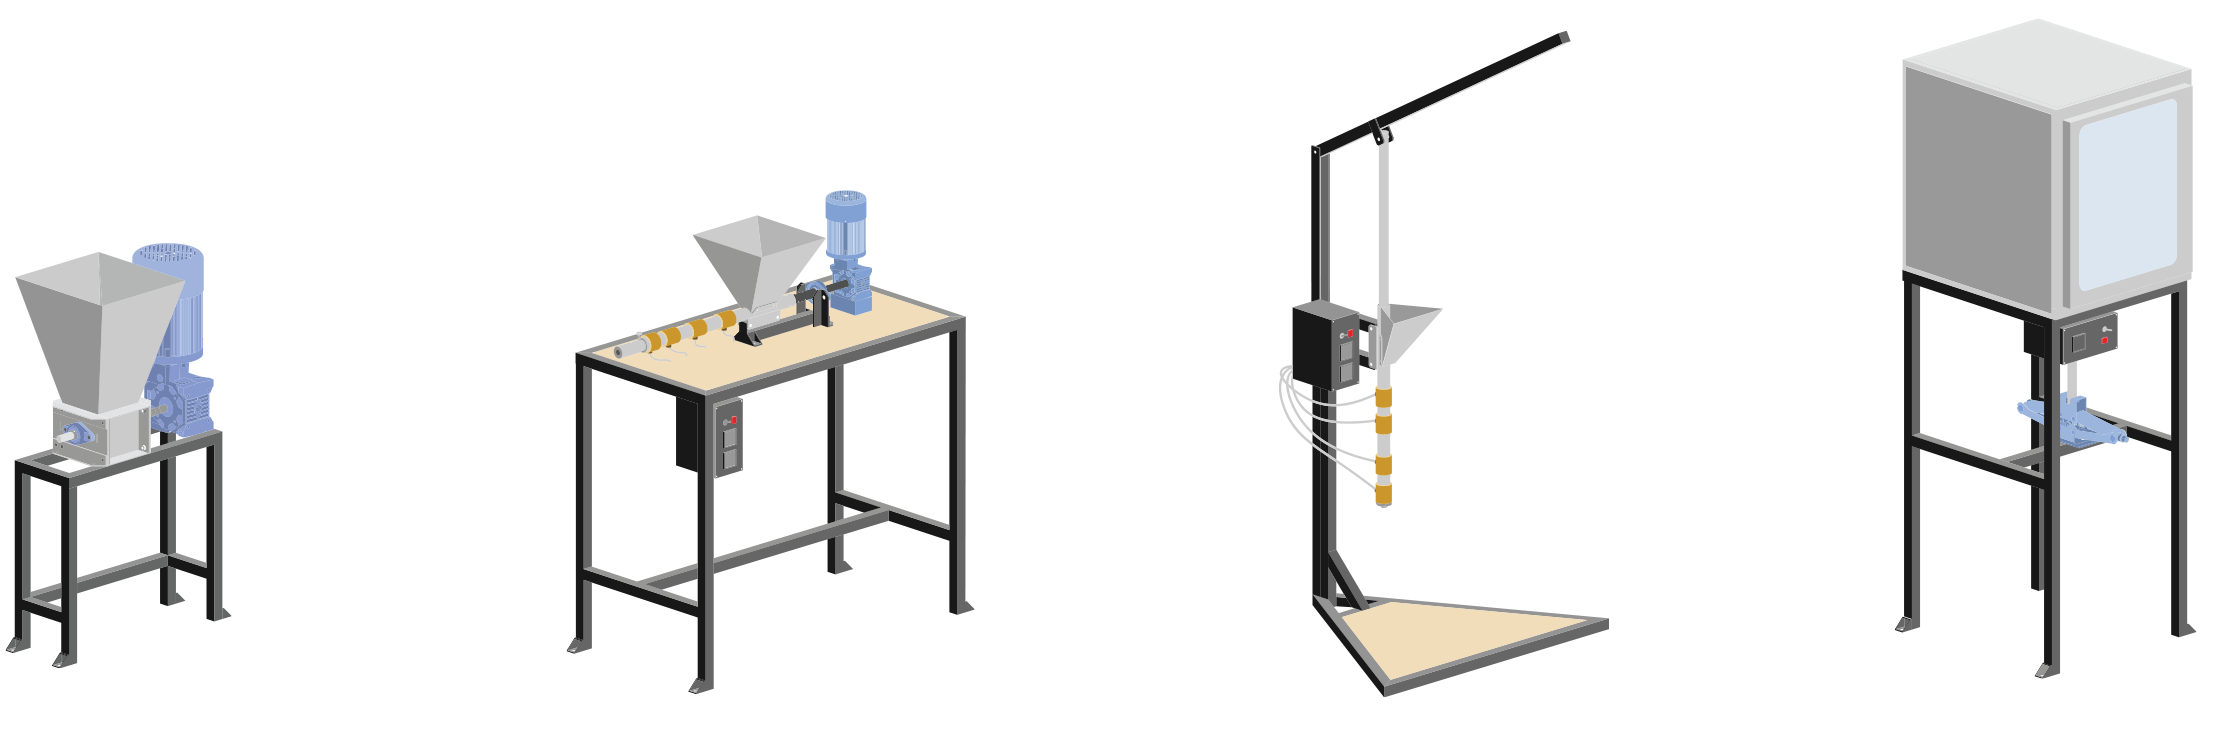
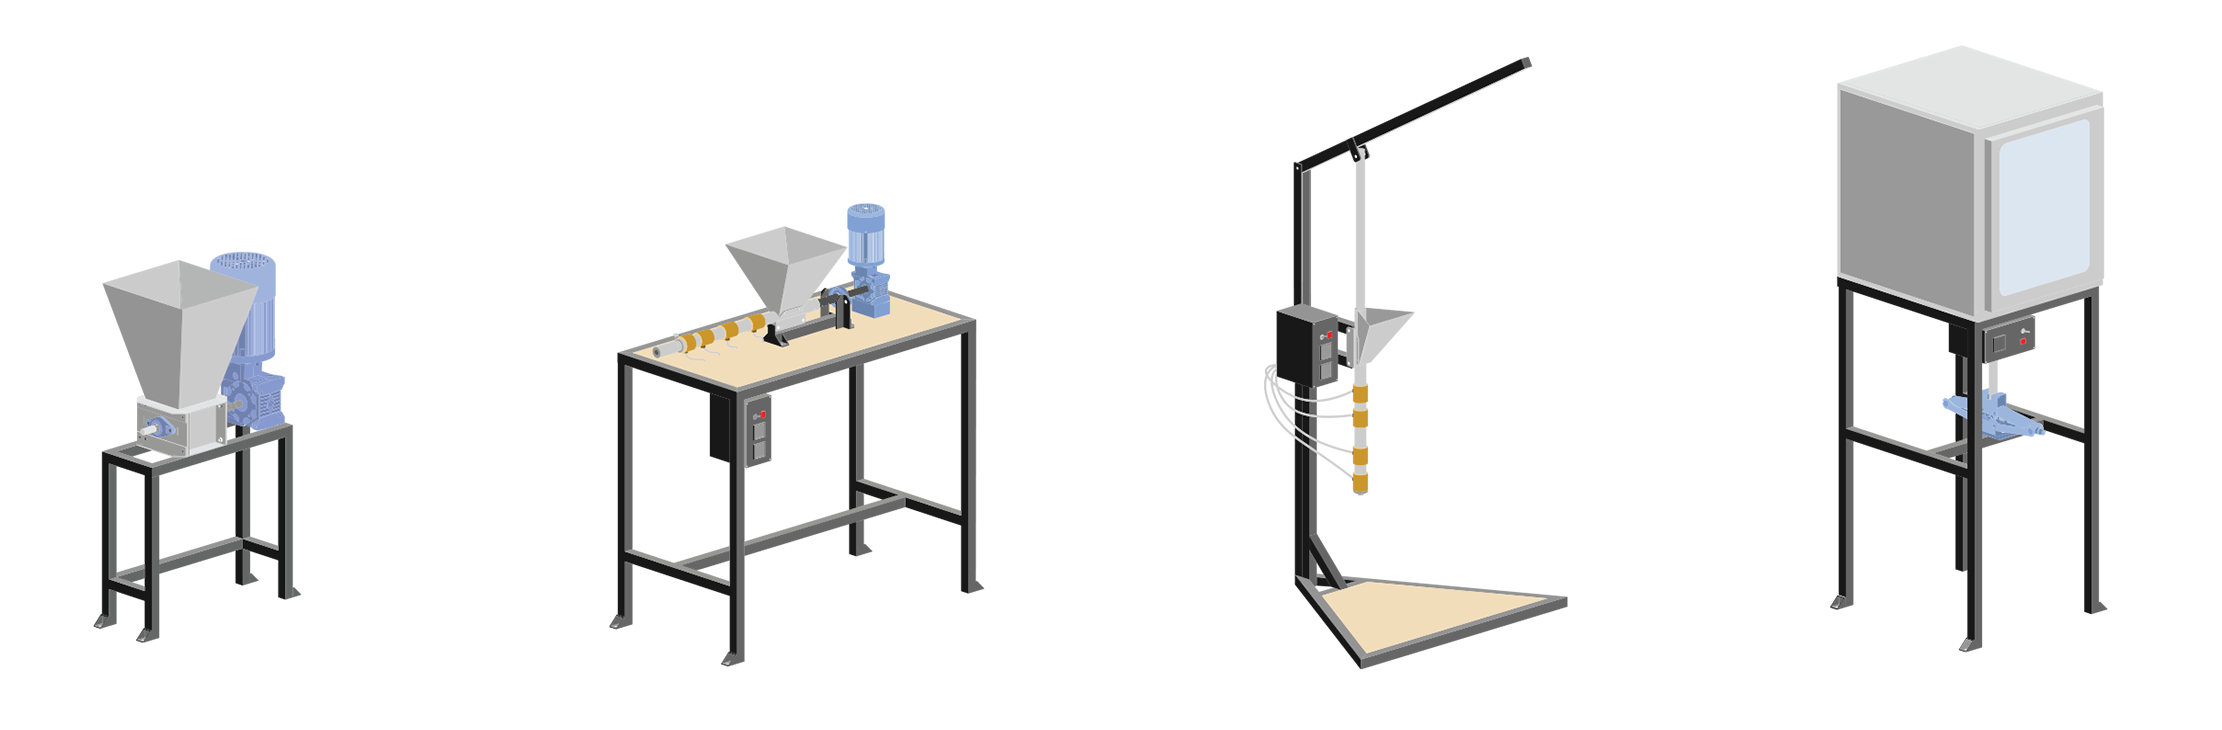
Image change plan

diff --git a/_sass/_main.scss b/_sass/_main.scss
@@ -231,14 +231,12 @@ a {
 
 #the-plan {
   text-align: center;
-  padding-top: 300px;
+  padding-top: 0px;
   overflow: hidden;
 
   img {
-    position: absolute;
     top: -150px;
-    left: -200px;
-    width: 700px;
+    width: 100%;
 
     @media (min-width: 768px) {
       left: 0;
